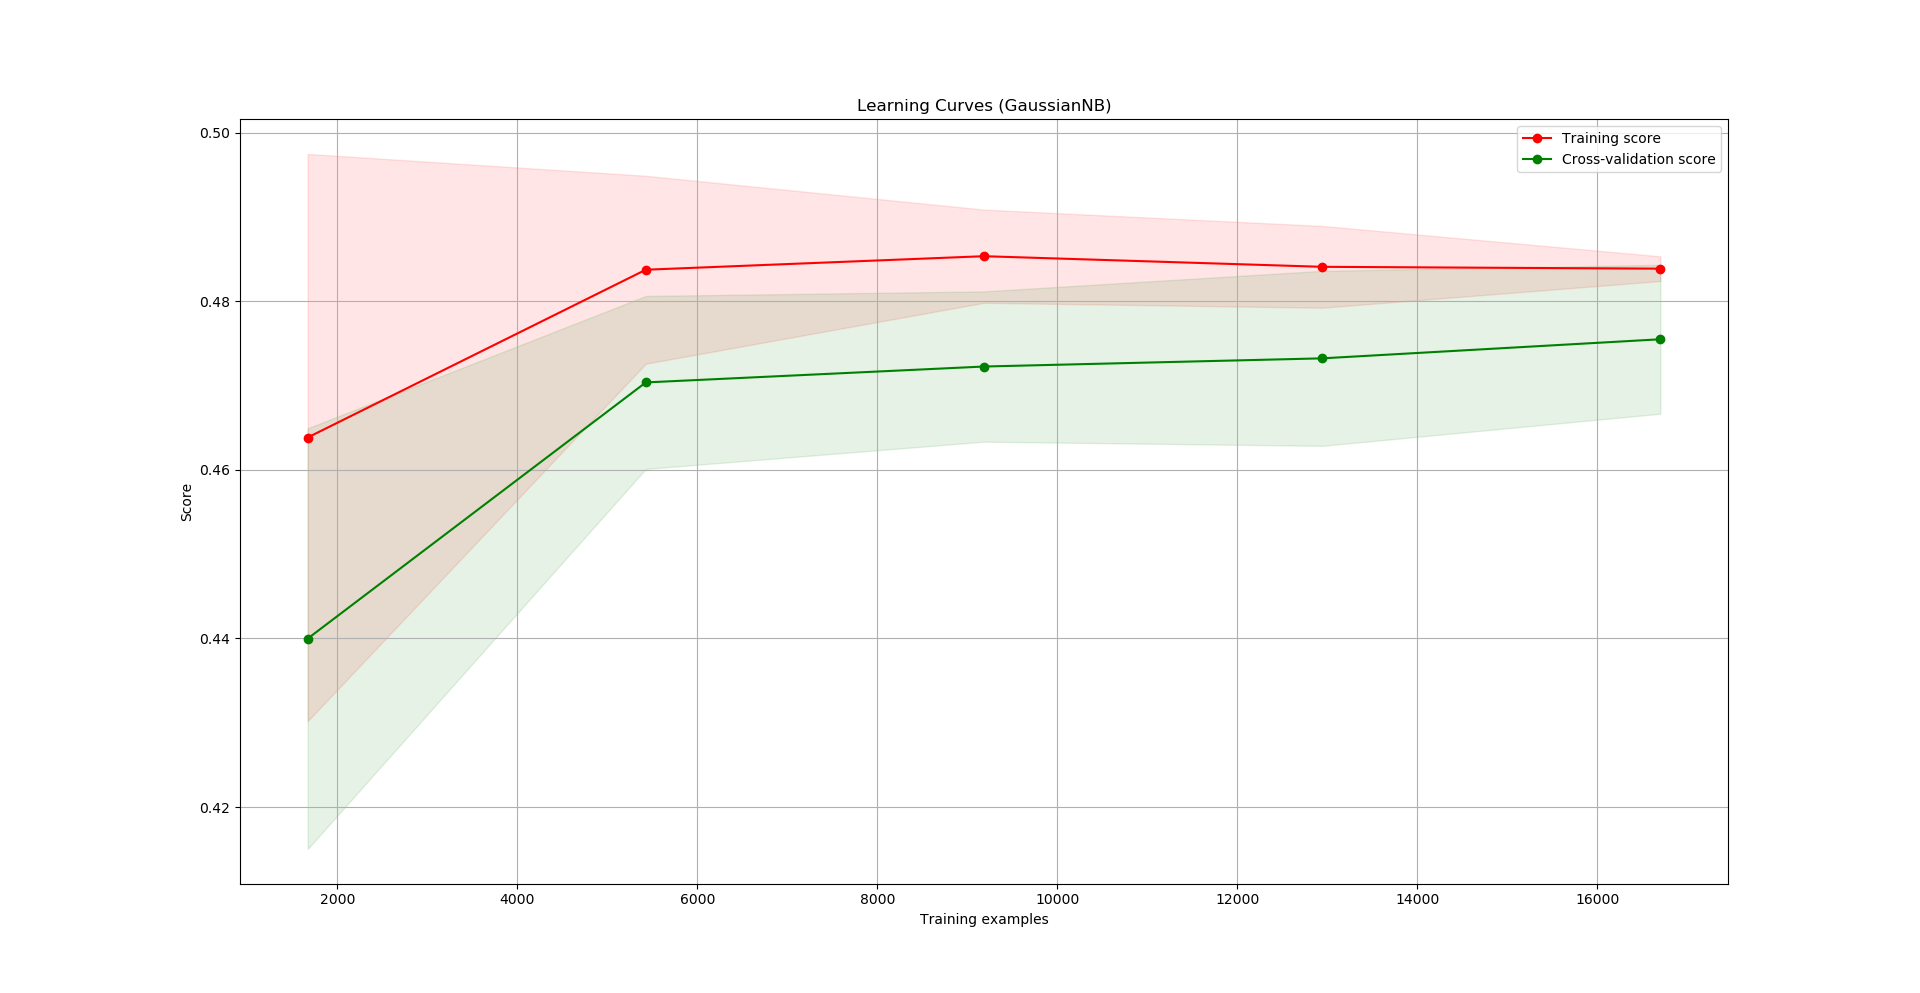
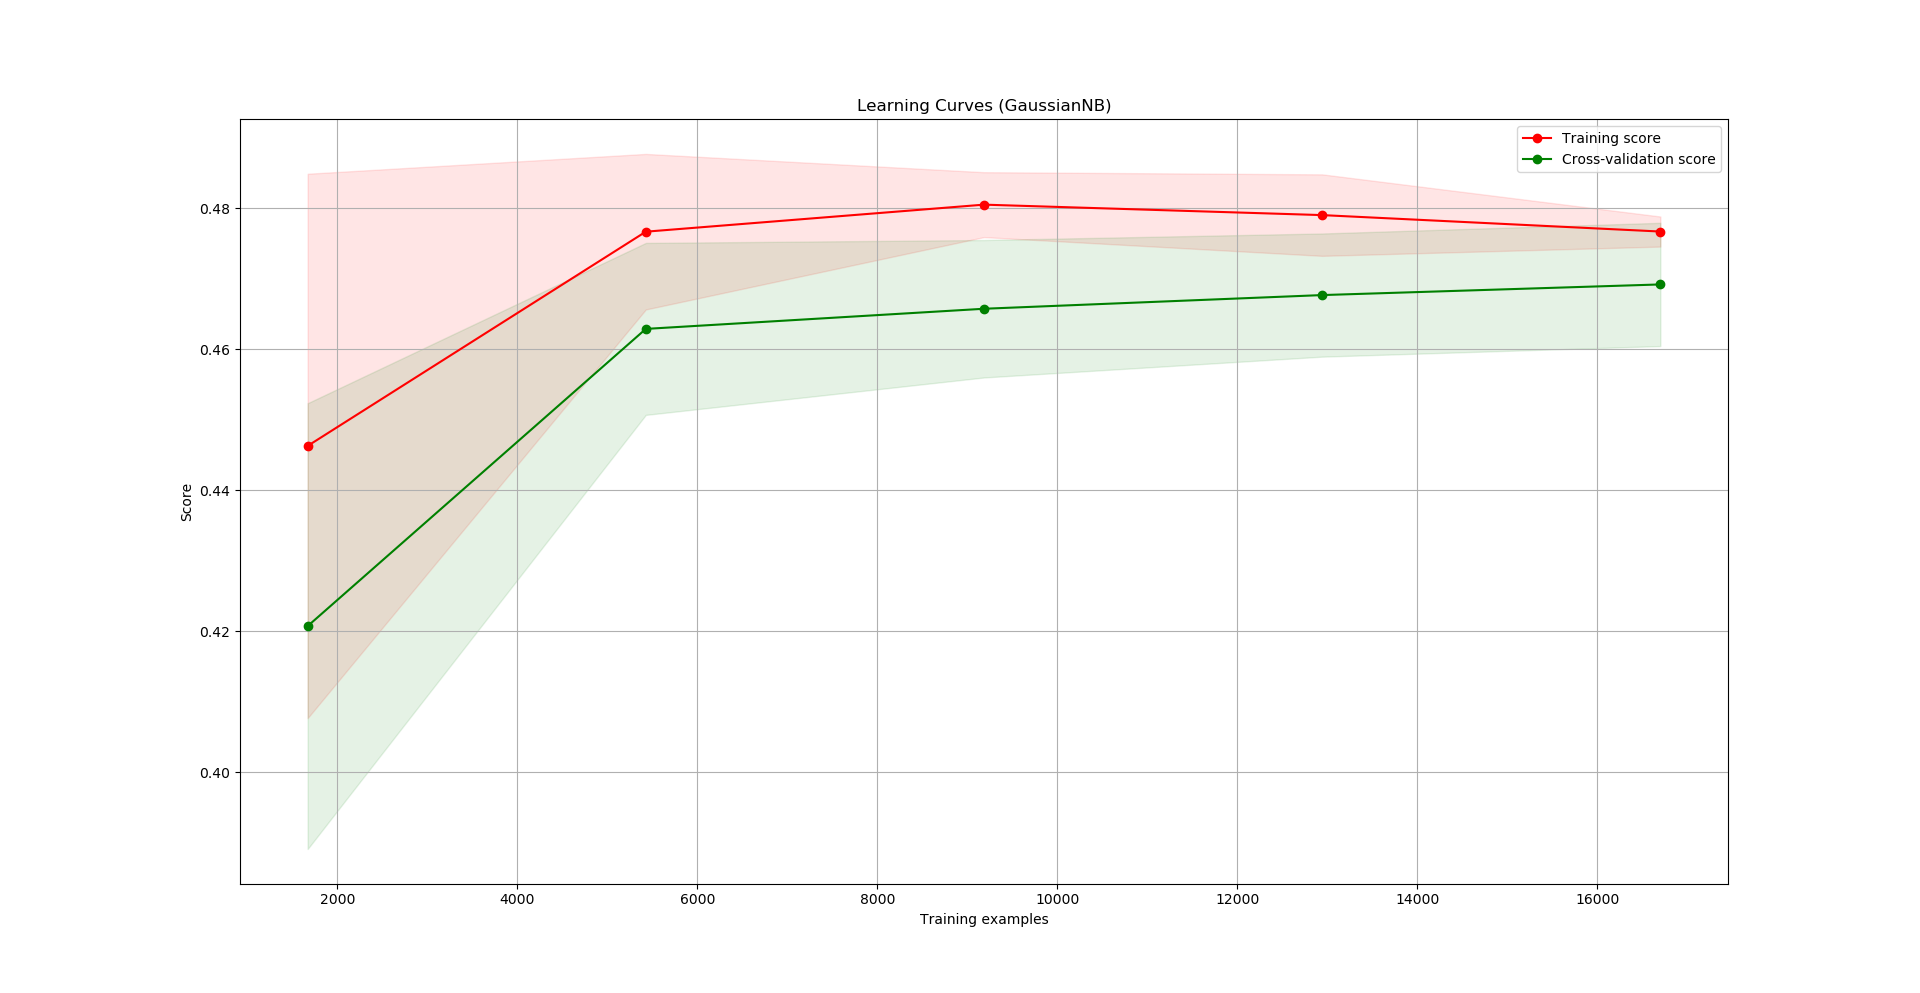
modify ovo gaussian

diff --git a/GaussianNB.py b/GaussianNB.py
@@ -114,7 +114,7 @@ if __name__ == "__main__":
     df_train_X_std = sc.transform(df_train_X)
     df_valid_X_std = sc.transform(df_valid_X)
 
-    gnb = OneVsRestClassifier(GaussianNB())
+    gnb = GaussianNB()
     
     cv = ShuffleSplit(n_splits=10, test_size=0.1, random_state=0)
     fig, axes = plt.subplots(1, 1, figsize=(10, 15))

diff --git a/README.md b/README.md
@@ -1,7 +1,7 @@
 ## Validation set ACC
 *   SVM:0.678
 *   Random Forest:0.596
-*   GaussianNB:0.530
+*   GaussianNB:0.544
 
 ## Usage
 *    `python3 *.py`
